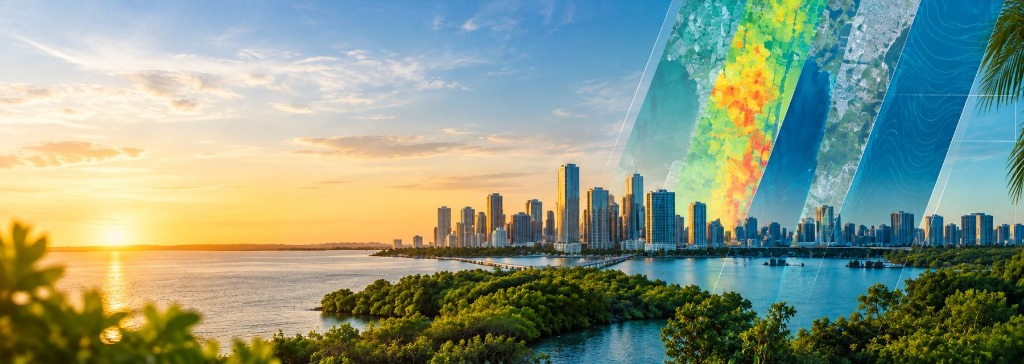
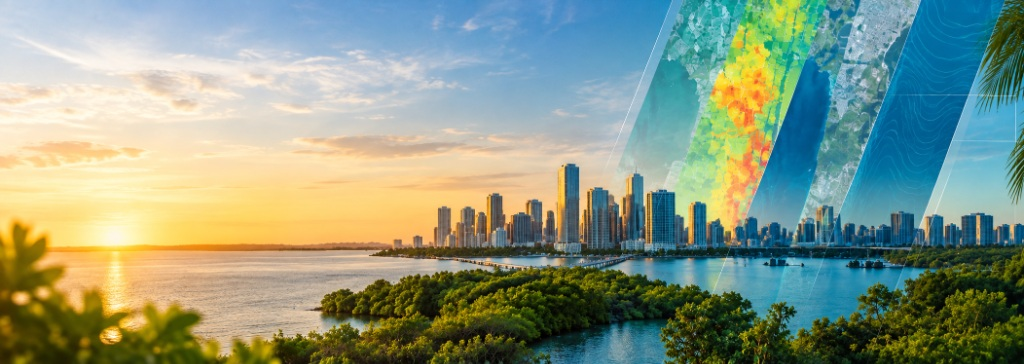
Use higher resolution skyline image for desktop hero

diff --git a/index.html b/index.html
@@ -35,7 +35,7 @@
 
 <section class="hero" id="home">
   <svg class="streets" viewBox="0 0 900 640" preserveAspectRatio="xMidYMid slice" aria-hidden="true"><path class="s-minor" d="M-264 -38L-143 447M-143 447L-70 738M-70 738L2 1029M-213 -51L-165 144M-165 144L-136 260M-136 260L-88 454M-88 454L-39 648M-39 648L9 842M-176 -60L-147 57M-147 57L-75 348M-2 639L70 930M70 930L119 1124M-118 -74L3 411M3 411L32 527M32 527L80 721M80 721L153 1012M-60 -89L61 396M61 396L109 590M109 590L138 707M138 707L259 1192M20 -109L68 85M68 85L189 571M189 571L261 862M261 862L290 978M56 -118L129 173M129 173L250 658M250 658L298 853M298 853L347 1047M214 358L335 843M335 843L456 1328M151 -141L272 344M272 344L301 460M301 460L350 654M350 654L398 848M398 848L471 1139M202 -154L231 -38M231 -38L304 253M304 253L425 739M425 739L454 855M282 -174L330 20M330 20L402 311M402 311L523 796M523 796L552 913M332 -186L405 105M453 299L501 493M501 493L574 784M574 784L603 900M382 -199L503 286M503 286L624 771M624 771L673 965M425 -210L473 -16M473 -16L503 101M575 392L696 877M462 -219L491 -102M491 -102L539 92M539 92L612 383M612 383L733 868M604 -48L633 68M633 68L662 185M662 185L734 476M734 476L763 592M763 592L884 1077M592 -251L665 40M665 40L786 525M642 -264L671 -147M671 -147L744 144M744 144L865 629M693 -276L741 -82M741 -82L862 403M862 403L911 597M911 597L959 791M736 -287L784 -93M784 -93L857 198M857 198L886 314M886 314L915 431M915 431L944 547M944 547L1065 1032M829 -310L858 -194M858 -194L930 97M930 97L1051 582M1051 582L1124 873M879 -323L1000 162M1000 162L1121 647M1121 647L1194 938M930 -336L1002 -44M1002 -44L1075 247M1075 247L1104 363M1104 363L1152 557M1152 557L1225 848M-297 12L-161 -22M-161 -22L-25 -56M-25 -56L111 -90M111 -90L615 -216M615 -216L751 -250M751 -250L887 -284M887 -284L1391 -409M-285 58L-72 5M-72 5L258 -77M258 -77L763 -203M763 -203L976 -256M-277 91L-64 38M-64 38L150 -15M150 -15L655 -141M655 -141L1159 -267M-269 124L61 42M61 42L566 -84M566 -84L896 -166M896 -166L1400 -292M-261 157L69 75M69 75L574 -51M574 -51L787 -104M787 -104L1292 -230M-249 204L81 121M81 121L411 39M411 39L741 -43M741 -43L1245 -169M-232 272L-96 238M564 73L894 -9M894 -9L1107 -62M-222 310L282 185M282 185L418 151M418 151L554 117M554 117L767 64M767 64L981 10M981 10L1311 -72M-215 339L-79 306M-79 306L134 252M134 252L464 170M464 170L794 88M794 88L1124 6M-205 378L-70 344M-70 344L66 311M66 311L202 277M416 223L551 190M551 190L687 156M687 156L823 122M823 122L1037 69M1037 69L1541 -57M-196 417L309 291M309 291L522 238M736 185L1066 103M-187 450L317 324M317 324L453 290M453 290L666 237M666 237L996 155M996 155L1501 29M-164 543L166 461M166 461L379 408M379 408L884 282M-155 582L-19 548M-19 548L195 495M195 495L331 461M466 427L680 374M680 374L816 340M952 306L1165 253M-143 629L71 575M71 575L400 493M400 493L730 411M-131 675L373 549M373 549L509 516M509 516L839 433M839 433L1169 351M-123 708L381 582M595 529L1099 403M1099 403L1429 321M-115 741L390 615M390 615L894 490M894 490L1108 436M-96 819L234 737M234 737L739 611M1069 528L1282 475M-88 848L125 795M261 761L591 679M591 679L804 625M804 625L940 591M940 591L1154 538M1154 538L1290 504M-81 877L132 824M462 742L792 659M792 659L1122 577M1122 577L1336 524M140 853L276 819M276 819L411 785M411 785L741 703M-62 953L151 899M151 899L656 774M656 774L1160 648M1160 648L1490 566"/><path class="s-major" d="M-306 -27L-186 458M-186 458L-137 652M-89 846L-40 1040M-17 -99L55 192M55 192L84 308M84 308L133 502M210 813L258 1007M239 -163L268 -47M268 -47L316 147M316 147L437 632M437 632L510 923M633 254L662 370M662 370L691 487M691 487L764 778M778 -298L899 187M899 187L948 381M948 381L1020 673M1020 673L1069 867M-306 -27L23 -110M159 -143L373 -197M373 -197L703 -279M703 -279L1033 -361M-239 242L-103 209M110 155L324 102M324 102L537 49M867 -33L1080 -87M-176 497L154 414M154 414L290 381M290 381L620 298M620 298L756 264M756 264L1260 139M-105 780L225 698M225 698L438 645M768 562L982 509M982 509L1195 456M-50 560L520 -40M120 700L900 180"/><path class="s-water" d="M640 -20 L651 14 L662 48 L672 82 L682 116 L690 150 L697 184 L703 218 L707 252 L709 286 L710 320 L709 354 L706 388 L701 422 L695 456 L687 490 L678 524 L669 558 L658 592 L647 626 L636 660M666 -20 L677 14 L688 48 L698 82 L708 116 L716 150 L723 184 L729 218 L733 252 L735 286 L736 320 L735 354 L732 388 L727 422 L721 456 L713 490 L704 524 L695 558 L684 592 L673 626 L662 660"/></svg>
-  <picture><source media="(max-width: 820px)" srcset="images/site/hero-skyline-mobile.jpg"><img class="photo" alt="Coastal city skyline and mangroves at sunset, with climate map layers" src="images/site/hero-skyline.jpg"></picture>
+  <picture><source media="(max-width: 820px)" srcset="images/site/hero-skyline-mobile.jpg"><img class="photo" alt="Coastal city skyline and mangroves at sunset, with climate map layers" src="images/site/hero-skyline.png"></picture>
   <div class="wrap"><div class="hero-text">
     <span class="eyebrow">Climate risk · Sustainability · Urban planning</span>
     <h1>I help governments and organisations understand climate risk, and <em>plan</em> what to do about it.</h1>
